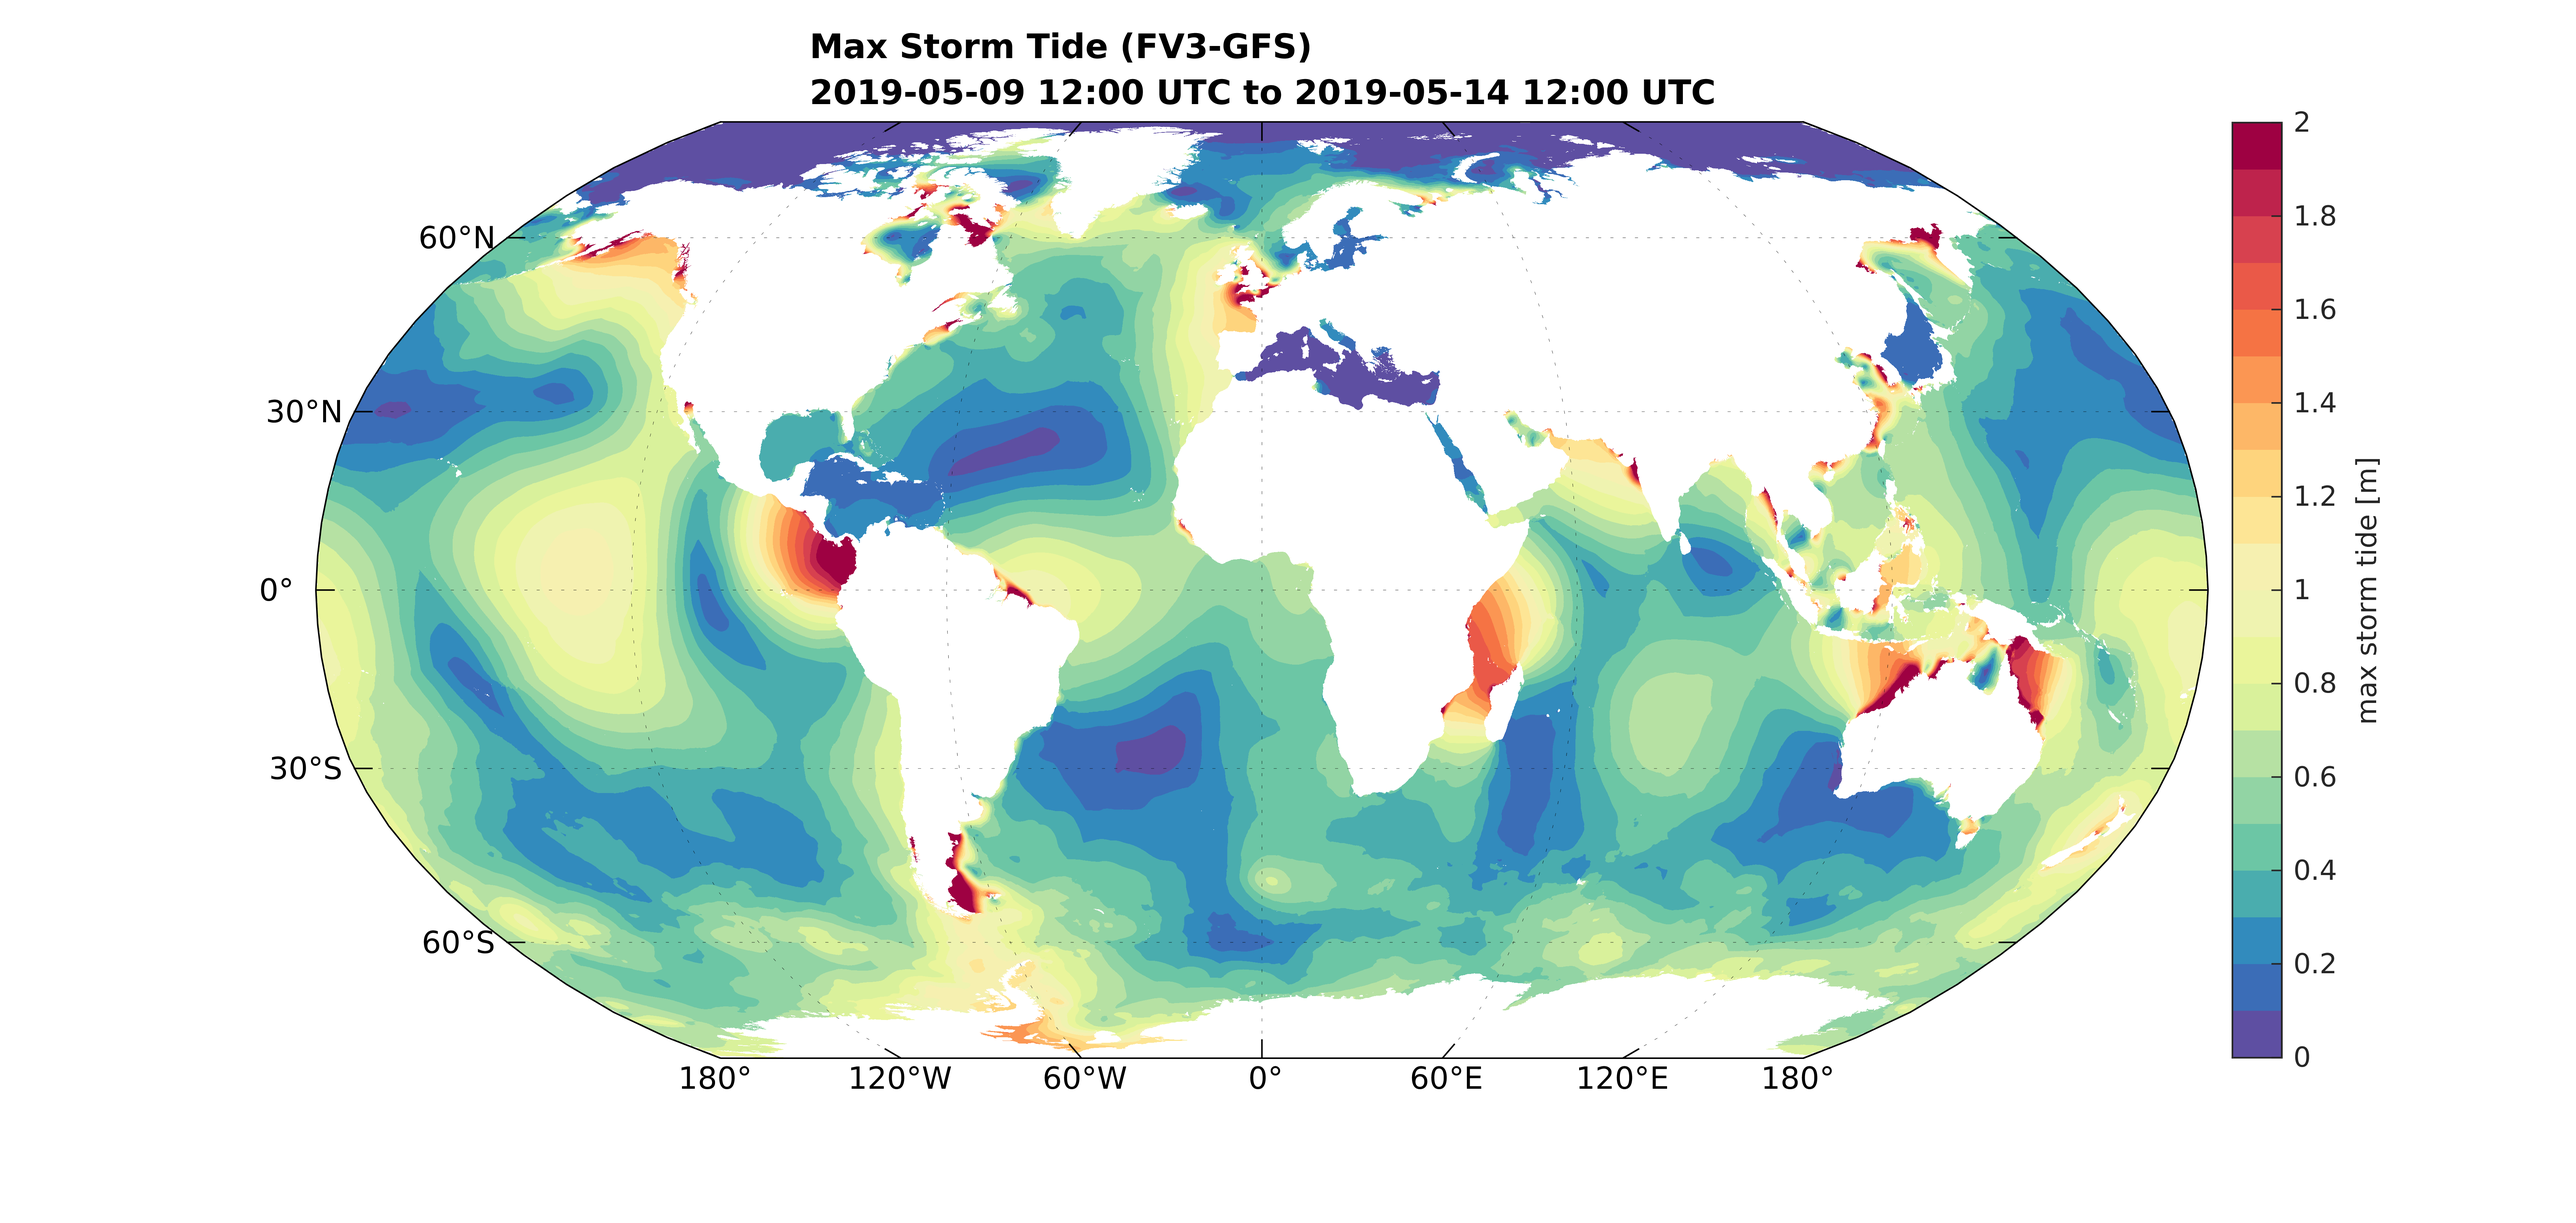
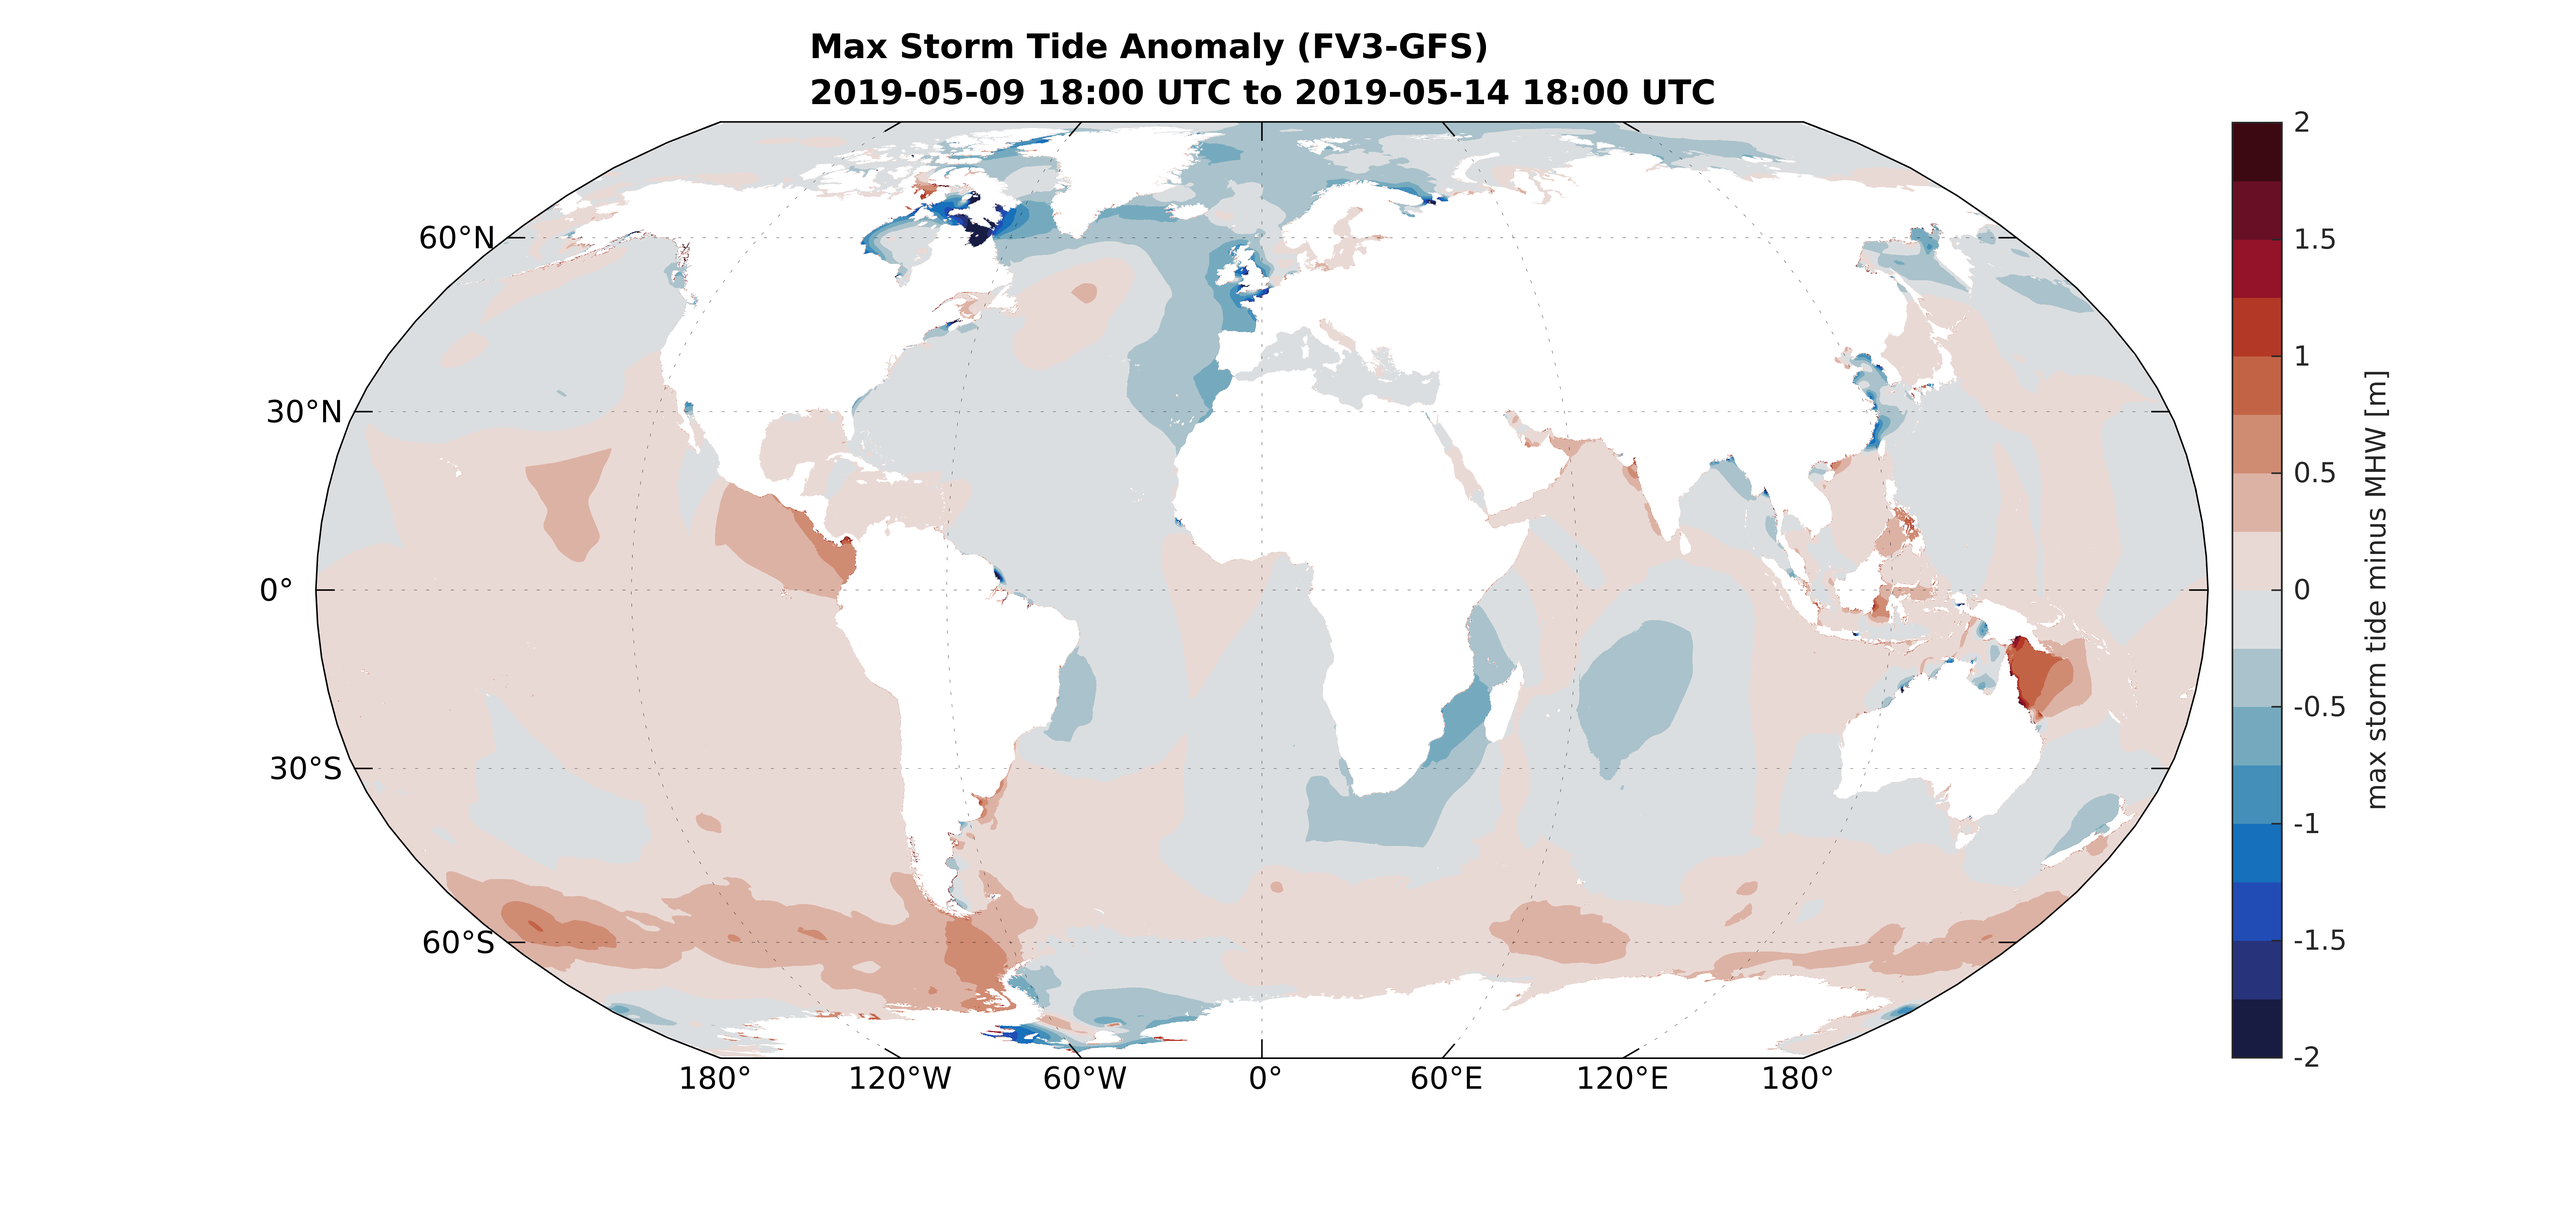
adding latest global forecast images

diff --git a/README.md b/README.md
@@ -2,7 +2,9 @@
 
 ## Global Results
 
-### Hydrodynamic: Maximum Storm Tide (Surge + Astronomical Tide)
+### Hydrodynamic: Maximum Storm Tide (Surge + Astronomical Tide) Anomaly
+
+Anomaly from simple estimate of mean high water based on TPXO9 tidal harmonics
 ![GlobalStormTide](MaxStormTide_Global2km.png)
 
 ### Meteorologic: Maximum 10-m Winds and Minimum Sea Surface Pressure
